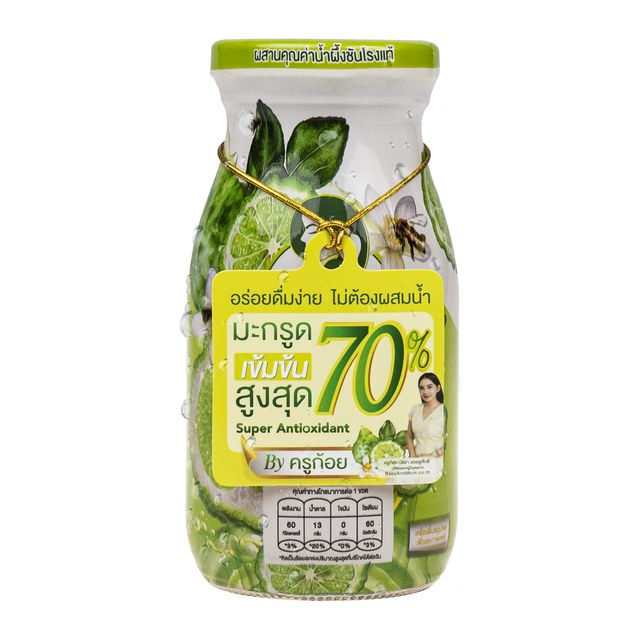
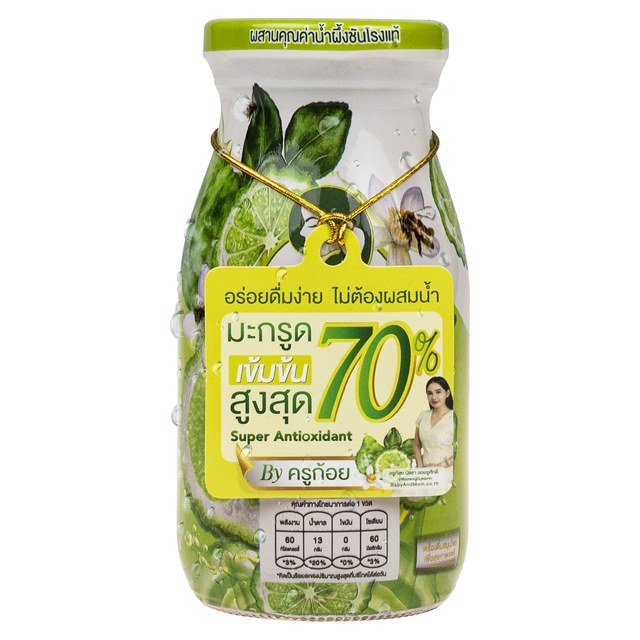
U-01 ปิดจบ — ภาพน้ำมะกรูด 2 SKU ถูกตัวแล้ว
ต้นระบุคู่ไฟล์ให้ชัด 19 ส.ค. แก้ข้อกังวลเรื่องหยิบสินค้าผิดตัวที่ flag ไว้รอบก่อน

  kaffirshot  (Shot 100% ฿600)  ← source/product photo/kaffirshot.png  864x1080
  kaffirhoney (70% น้ำผึ้ง)      ← source/product photo/มะกรูดใหม่.png  6000x4000

ต้นฉบับ 2 ไฟล์คนละแบบ จึงประมวลผลคนละวิธี:
- kaffirshot.png เป็นภาพถ่ายพื้นสตูดิโอเทา (230,230,230) ไม่มี alpha cutout
  ใช้ flood fill จากมุมทั้ง 4 ให้พื้นเป็นขาว **ไม่ใช้วิธีแทนที่ทุกพิกเซลที่สีใกล้เทา**
  เพราะฉลากขาวกับน้ำสีอ่อนในขวดมีสีใกล้พื้นหลัง จะโดนกินไปด้วย
  flood fill ไล่จากขอบเข้ามา จึงแตะเฉพาะพื้นหลังที่เชื่อมกับขอบจริง
- มะกรูดใหม่.png มี alpha cutout จริง (โปร่งใส 87%) ครอปตาม alpha แล้ววางบนขาว

ตรวจภาพสินค้าทั้ง 25 ไฟล์แล้ว เหลือที่ต่ำกว่ามาตรฐาน 640px แค่ phytocrystalc.jpg
(260x287) ไฟล์เดียว รอไฟล์ต้นฉบับจากแบรนด์

Changed region(s): [[0.25, 0.0, 0.75, 0.9688]]

diff --git a/docs/PRD-UPDATE-R5-1308.md b/docs/PRD-UPDATE-R5-1308.md
@@ -8,7 +8,7 @@
 
 | ข้อ | มติของต้น | ผล |
 |---|---|---|
-| U-01 ภาพน้ำมะกรูดเบลอ | "ok" → "ใช้ภาพขวดเดี่ยวได้เลย" (19 ส.ค.) | ✅ ทำแล้วตามคำสั่ง — ⚠ ผลข้างเคียงใน §U-01 |
+| U-01 ภาพน้ำมะกรูดเบลอ | ต้นส่งไฟล์ถูกตัวมาให้ (19 ส.ค.) | ✅ **ปิดจบ** — kaffirshot + kaffirhoney ถูกต้องทั้งคู่ |
 | U-02 ภาพเบลออีก 3 ตัว | "ใส่ใน source ให้แล้ว" | ✅ ทำ 2/3 · ยังขาด phytocrystalc |
 | U-03 ภาพคู่แผง | "จะรู้ได้ยังไง? อะไรเป็นหลักเกณฑ์ mapping?" | 💬 เป็นคำถามกลับ — ตอบไว้ใน §U-03 ยังไม่ dev |
 | U-04 ตัวเลข "91–91" | "ok" | ✅ ทำแล้ว |
@@ -30,15 +30,19 @@
 | `kaffirshot.jpg` (ตัวที่ต้นวงกลม · ฿600) | **ขวดชอตเรียงถาด** — "น้ำมะกรูด Shot 100%" |
 | `มะกรูดใหม่.png` | **ขวดโหล "มะกรูดเข้มข้น สูงสุด 70%"** = ตัวเดียวกับ `kaffirhoney.jpg` ที่มีอยู่แล้ว |
 
-### มติ 19 ส.ค. 69 — ต้นสั่ง "น้ำมะกรูดใช้ภาพขวดเดี่ยวได้เลย" → ทำแล้ว
+### ✅ ปิดจบ 19 ส.ค. 69 — ต้นส่งไฟล์ถูกตัวมาให้
 
-`public/products/kaffirshot.jpg` ตอนนี้ใช้ `มะกรูดใหม่.png` (ครอปตาม alpha · 640×640 พื้นขาว)
+ข้อกังวลเรื่อง SKU ถูกต้อง — ต้นระบุคู่ให้ชัด:
 
-⚠ **ผลข้างเคียงที่ต้องรู้ ไม่ได้ปิดบัง:**
-1. รายการ "น้ำมะกรูด Shot 100% · ฿600" ตอนนี้แสดง**ภาพขวดโหล 70%**
-2. `kaffirshot` กับ `kaffirhoney` **ใช้ภาพเดียวกันแล้ว** — ถ้าลูกค้าได้รับคำแนะนำทั้งสองตัว จะเห็นภาพซ้ำกัน
+| สินค้า | ไฟล์ต้นฉบับ | วิธีประมวลผล |
+|---|---|---|
+| **น้ำมะกรูด Shot 100%** (`kaffirshot`) | `kaffirshot.png` 864×1080 | ภาพถ่ายพื้นสตูดิโอเทา (ไม่มี cutout) → **flood fill จากมุมทั้ง 4 ให้พื้นเป็นขาว** แล้วครอป |
+| **น้ำมะกรูด 70% น้ำผึ้ง** (`kaffirhoney`) | `มะกรูดใหม่.png` 6000×4000 | มี alpha cutout จริง (โปร่งใส 87%) → ครอปตาม alpha แล้ววางบนขาว |
 
-ถ้าไม่ใช่สิ่งที่ต้องการ กลับคืนได้ทันที (ไฟล์เดิมอยู่ใน git history) — หรือส่งภาพ Shot 100% ตัวจริงมาแล้วผมเปลี่ยนให้
+**ทำไมใช้ flood fill ไม่ใช่ "แทนที่ทุกพิกเซลที่สีใกล้เทา":** ฉลากขาวกับน้ำสีอ่อนในขวดมีสีใกล้เคียงพื้นหลัง
+การแทนที่ตามสีจะกินเนื้อสินค้าไปด้วย · flood fill ไล่จากขอบเข้ามา จึงแตะเฉพาะพื้นหลังที่เชื่อมกับขอบจริง ๆ
+
+**ตรวจแล้ว:** ภาพสินค้าเหลือที่ต่ำกว่ามาตรฐาน 640px แค่ `phytocrystalc.jpg` (260×287) ไฟล์เดียว
 
 **หมายเหตุที่เจอเพิ่ม:** 4 ไฟล์ที่ความละเอียดต่ำ (kaffirshot · phytocrystalc · puregreen · purered)
 ทั้งหมดเป็น **ภาพครอปจากหน้าเว็บ พื้นหลังชมพู มีเลขข้อกับคำบรรยายติดมาในภาพ** ไม่ใช่ภาพสินค้าจริง
@@ -50,7 +54,7 @@
 → ประมวลผลเป็น 640×640 พื้นขาว ด้วยขั้นตอนเดียวกับอีก 21 ไฟล์ (ตัดขอบ + วางกลาง)
 → อัปเดตทั้ง `public/products/` และ `assets/products/`
 
-**ยังขาด:** `phytocrystalc` — ไม่มีไฟล์ต้นฉบับในระบบ ยังเป็นภาพครอปพื้นชมพู 260×287
+**ยังขาด:** `phytocrystalc` — ไม่มีไฟล์ต้นฉบับในระบบ ยังเป็นภาพครอปพื้นชมพู 260×287 · **เป็นภาพสุดท้ายที่เหลือ** (อีก 24 ไฟล์ได้มาตรฐาน 640×640 หมดแล้ว)
 
 ## U-03 · 💬 ตอบคำถาม "อะไรเป็นหลักเกณฑ์ mapping?"
 
@@ -131,7 +135,6 @@
 
 | ต้องการ | จาก | บล็อกอะไร |
 |---|---|---|
-| ไฟล์ภาพ **น้ำมะกรูด Shot 100%** ตัวจริง | แบรนด์ | U-01 |
 | ไฟล์ภาพ **Phyto Crystal C** | แบรนด์ | U-02 |
 | ยืนยันเกณฑ์ mapping ภาพ ↔ วิธีใช้ + ไฟล์ภาพชุดใหม่ | ต้น + แบรนด์ | U-03 |
 | ค่าโปรตีน 6 รายการ + ตอบเรื่องอะโวคาโด/นม/ถั่ว | ทีมครูก้อย | U-08 |
